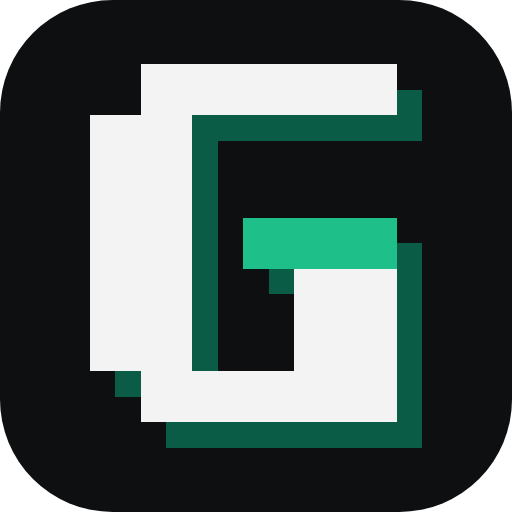
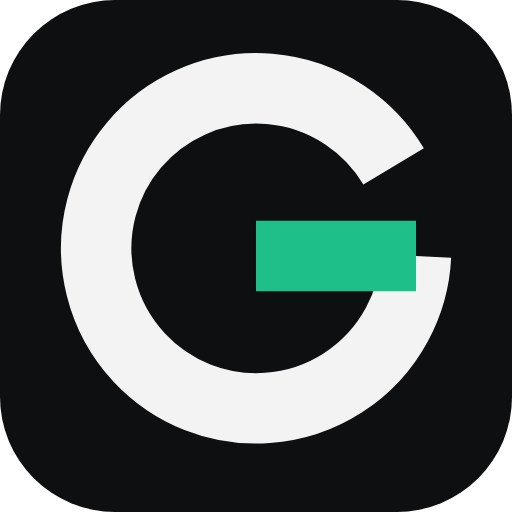
Redraw the GreatCMS mark as a round G, and describe the GitHub App in full
The mark is a round G whose crossbar is the green commit bar, replacing the
pixel G and its shadow. Every copy follows: the studio's brand mark, both
favicons, the touch and install icons, the website's share image, and a
full-square logo to upload to the GitHub App.

The app's description now says what it does and what it can touch, as
Markdown GitHub renders on the app's page. The repository list links back
to managing the GitHub connection.

diff --git a/apps/studio/src/github.ts b/apps/studio/src/github.ts
@@ -59,6 +59,21 @@ export function appName(origin: string): string {
   return !local && named.length <= 34 ? named : `GreatCMS Studio ${randomBytes(2).toString("hex")}`;
 }
 
+/** What GitHub shows on the app's page and when someone installs it; GitHub renders it as Markdown. */
+export function appDescription(origin: string): string {
+  return [
+    `The visual editor at **${new URL(origin).host}** for sites whose content lives in Git.`,
+    "",
+    "- Signs you in with your GitHub account",
+    "- Adds the repositories you choose as sites",
+    "- Publishes each edit as one commit",
+    "",
+    "It reads and writes files in those repositories and nothing else: no issues, settings, secrets or webhooks. It never runs their code.",
+    "",
+    "Open source: github.com/uwenayoallain/thegreatcms",
+  ].join("\n");
+}
+
 function encode(value: object): string {
   return Buffer.from(JSON.stringify(value)).toString("base64url");
 }
@@ -132,7 +147,7 @@ export class GitHub {
     const manifest = {
       name: appName(origin),
       url: origin,
-      description: `Lets the GreatCMS studio at ${new URL(origin).host} copy the repositories you choose and publish your team's edits to them as commits. It reads and writes file contents only: no issues, no settings, no webhooks.`,
+      description: appDescription(origin),
       request_oauth_on_install: false,
       redirect_url: `${origin}/git-access/github/created`,
       callback_urls: [`${origin}${SIGN_IN_CALLBACK}`],

diff --git a/apps/studio/src/views/layout.ts b/apps/studio/src/views/layout.ts
@@ -209,10 +209,10 @@ export function compact(markup: string): string {
     .join("");
 }
 
-/** The mark: a pixel G whose crossbar is a commit, the one thing a publish becomes. */
+/** The mark: a G whose crossbar is a commit, the one thing a publish becomes. */
 export function brandMark() {
   return raw(
-    '<svg class="mark" viewBox="0 0 10 10" aria-hidden="true"><rect width="10" height="10" rx="2.2" fill="#0e0f11"/><g shape-rendering="crispEdges"><path fill="#0b5c47" d="M3.25 1.75h5v1h-5zM2.25 2.75h2v1h-2zM2.25 3.75h2v1h-2zM2.25 4.75h2v1h-2zM5.25 4.75h3v1h-3zM2.25 5.75h2v1h-2zM6.25 5.75h2v1h-2zM2.25 6.75h2v1h-2zM6.25 6.75h2v1h-2zM3.25 7.75h5v1h-5z"/><path fill="#f3f3f3" d="M2.75 1.25h5v1h-5zM1.75 2.25h2v1h-2zM1.75 3.25h2v1h-2zM1.75 4.25h2v1h-2zM1.75 5.25h2v1h-2zM5.75 5.25h2v1h-2zM1.75 6.25h2v1h-2zM5.75 6.25h2v1h-2zM2.75 7.25h5v1h-5z"/><path fill="#1fbf8a" d="M4.75 4.25h3v1h-3z"/></g></svg>',
+    '<svg class="mark" viewBox="0 0 16 16" aria-hidden="true"><rect width="16" height="16" rx="3.6" fill="#0e0f11"/><path fill="none" stroke="#f3f3f3" stroke-width="2.2" d="M12.3 5.2A5 5 0 1 0 13 8"/><path fill="#1fbf8a" d="M8 6.9h5v2.2H8z"/></svg>',
   );
 }
 

diff --git a/apps/studio/tests/github.test.ts b/apps/studio/tests/github.test.ts
@@ -116,6 +116,9 @@ describe("making the app", () => {
     expect(parsed.setup_url).toBe("https://studio.example.com/git-access/github/installed");
     expect(parsed.name).toBe("GreatCMS studio.example.com");
     expect(parsed.description).toContain("studio.example.com");
+    expect(parsed.description).toContain("Signs you in with your GitHub account");
+    expect(parsed.description).toContain("never runs their code");
+    expect(parsed.url).toBe("https://studio.example.com");
     expect(parsed.description.length).toBeLessThanOrEqual(400);
   });
 

diff --git a/apps/studio/src/views/sites-pages.ts b/apps/studio/src/views/sites-pages.ts
@@ -580,6 +580,7 @@ function githubList(github: GitHubRepositories) {
           ? html`Missing one? <a href="${github.installUrl}">Choose repositories on GitHub</a>.`
           : ""
       }
+      <a href="/git-access">Manage the GitHub connection</a>.
     </p>
     ${
       github.error
